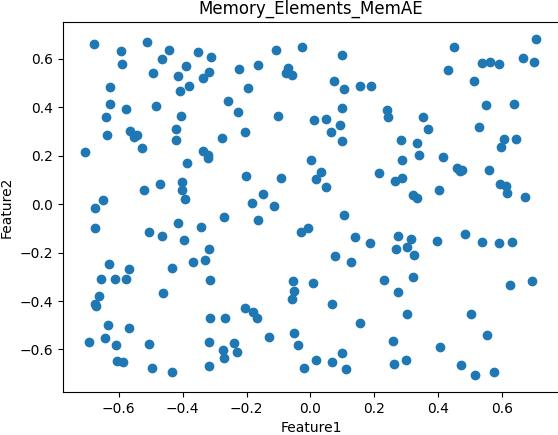
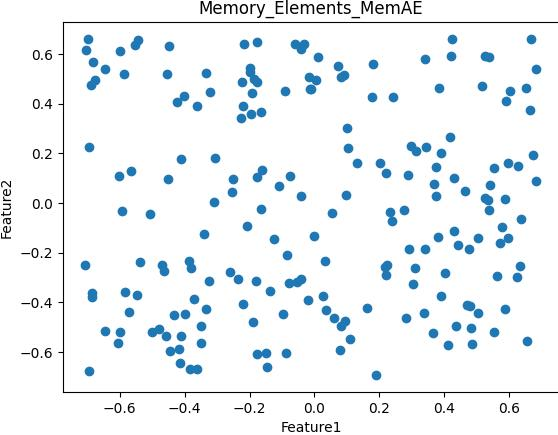
Data normalization/denormalization

diff --git a/utils.py b/utils.py
@@ -4,66 +4,87 @@ from statistics import mean, stdev
 import pandas as pd
 import numpy as np
 
+
 def fault_generation(df_real, type='bias', sensor='PM25', magnitude=0, start=0, stop=100):
-  if (start < 0) or (stop > len(df_real)) or (start == stop):
-    raise Exception("Inappropriate boundries.")
-  #faulty = df_real[sensor].values
-  faulty = []
-  if sensor == 'PM25':
-    faulty = df_real.PM25.values
-  elif sensor == 'PM10':
-    faulty = df_real.PM10.values
-  elif sensor == 'CO2':
-    faulty = df_real.CO2.values
-  elif sensor == 'Temp':
-    faulty = df_real.Temp.values
-  elif sensor == 'Humidity':
-    faulty = df_real.Humidity.values
-  else:
-    raise Exception("Inappropriate sensor name.")
+    if (start < 0) or (stop > len(df_real)) or (start == stop):
+        raise Exception("Inappropriate boundries.")
+    # faulty = df_real[sensor].values
+    faulty = []
+    pos = 0  # position of the sensor in the dataframe
+    if sensor == 'PM25':
+        faulty = df_real.PM25.values
+        pos = 0
+    elif sensor == 'PM10':
+        faulty = df_real.PM10.values
+        pos = 1
+    elif sensor == 'CO2':
+        faulty = df_real.CO2.values
+        pos = 2
+    elif sensor == 'Temp':
+        faulty = df_real.Temp.values
+        pos = 3
+    elif sensor == 'Humidity':
+        faulty = df_real.Humidity.values
+        pos = 4
+    else:
+        raise Exception("Inappropriate sensor name.")
 
-  if (type == 'bias'):
-    for i in range(start, stop):
-      faulty[i] += magnitude
+    if (type == 'Bias'):
+        for i in range(start, stop):
+            faulty[i] += magnitude
 
-  elif (type == 'Complete_failure'):
-    for i in range(start, stop):
-      faulty[i] = magnitude
+    elif (type == 'Complete_failure'):
+        for i in range(start, stop):
+            faulty[i] = magnitude
 
-  elif (type == 'Drift'):
-    m1 = mean(df_real[sensor])
-    s1 = stdev(df_real[sensor])
+    elif (type == 'Drift'):
+        m1 = mean(df_real[sensor])
+        s1 = stdev(df_real[sensor])
 
-    m2 = m1 + magnitude
-    s2 = s1 + magnitude
+        m2 = m1 + magnitude
+        s2 = s1 + magnitude
 
-    for i in range(start, stop):
-      faulty[i] = m2 + (faulty[i] - m1) * (s2 / s1)
+        for i in range(start, stop):
+            faulty[i] = m2 + (faulty[i] - m1) * (s2 / s1)
 
-  elif (type == 'Degradation'):
-    mu, sigma = 0, 0.1
-    noise = np.random.normal(mu, sigma, [stop - start, ])
-    faulty += magnitude * noise
+    elif (type == 'Degradation'):
+        mu, sigma = 0, 0.1
+        noise = np.random.normal(mu, sigma, [stop - start, ])
+        faulty += magnitude * noise
 
-  else:
-    raise Exception("Inappropriate failure type.")
-  df_real.drop(sensor, axis=1, inplace=True)
-  df_real[sensor] = faulty
+    else:
+        raise Exception("Inappropriate failure type.")
+    df_real.drop(sensor, axis=1, inplace=True)
+    # df_real[sensor] = faulty
+    df_real.insert(pos, sensor, faulty, True)
+    return df_real
 
-  return df_real
+
+# explicit function to normalize array
+def normalize_2d(matrix):
+    norm = np.linalg.norm(matrix)
+    matrix = matrix / norm  # normalized matrix
+    return matrix, norm
+
+
+def de_normalize_2d(matrix, norm):
+    matrix = matrix * norm  # denormalized matrix
+    return matrix
 
 def data_loading(mat_file='IAQ_2month_Vah.mat', train_test_ratio=4):
-  d = sio.loadmat(mat_file)
-  d = d["Platfrom_C"]
+    d = sio.loadmat(mat_file)
+    d = d["Platfrom_C"]
 
-  train_data=[]
-  test_data=[]
+    d, norm = normalize_2d(d)
 
-  t= train_test_ratio/(train_test_ratio+1)
+    train_data = []
+    test_data = []
 
-  for i in range(ceil(d.shape[0]*t)):
-    train_data.append(d[i])
-  for j in range(ceil(d.shape[0]*t), d.shape[0]):
-    test_data.append(d[i])
+    t = train_test_ratio / (train_test_ratio + 1)
 
-  return train_data, test_data
+    for i in range(ceil(d.shape[0] * t)):
+        train_data.append(d[i])
+    for j in range(ceil(d.shape[0] * t), d.shape[0]):
+        test_data.append(d[i])
+
+    return train_data, test_data, norm

diff --git a/sv.py b/sv.py
@@ -23,7 +23,7 @@ batch=1
 """# **Data loading**"""
 
 # load the data
-train_data, test_data = data_loading()
+train_data, test_data, norm = data_loading()
 sensors= ['PM25', 'PM10', 'CO2', 'Temp','Humidity']
 df=pd.DataFrame(train_data, columns=sensors)  # df is for training
 df_real= pd.DataFrame(test_data, columns=sensors) # real test data
